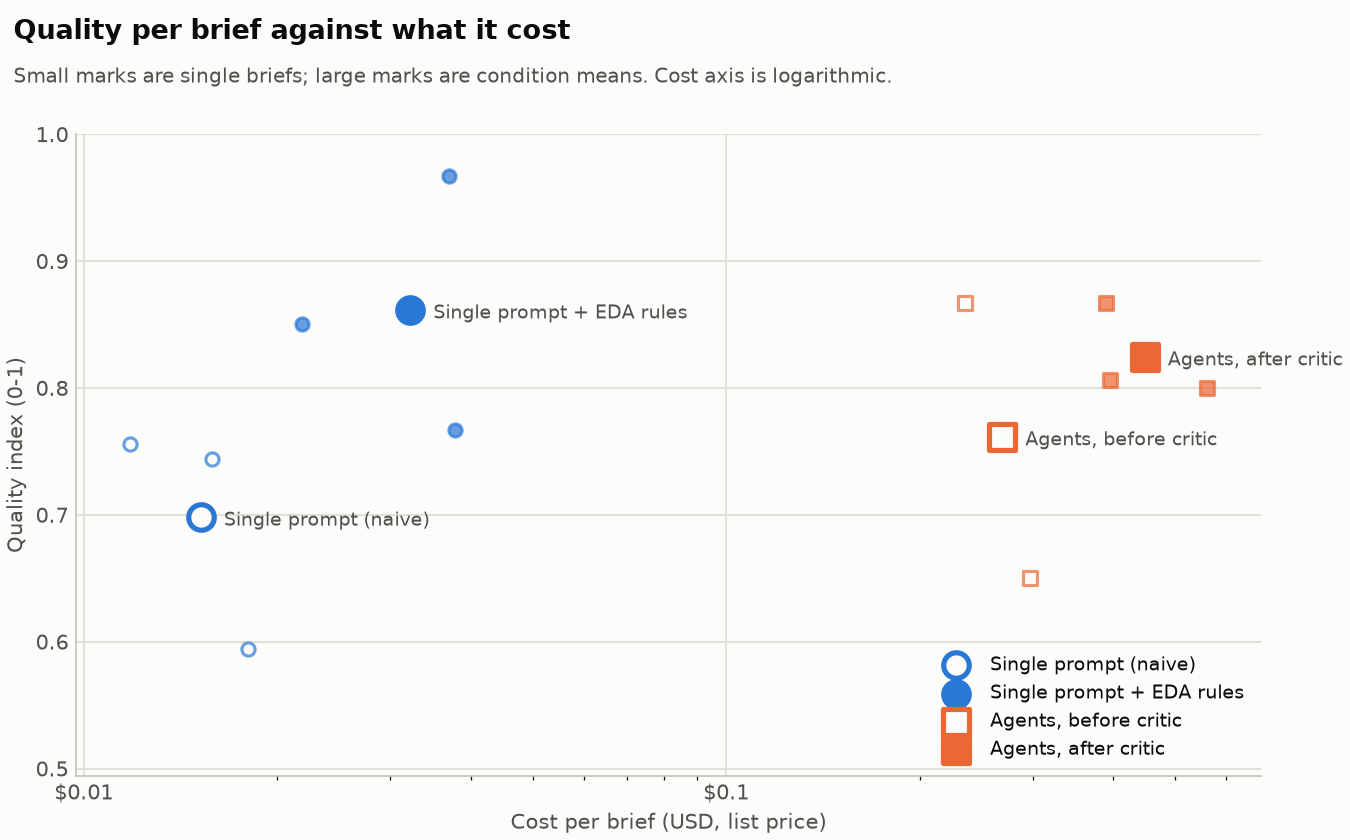
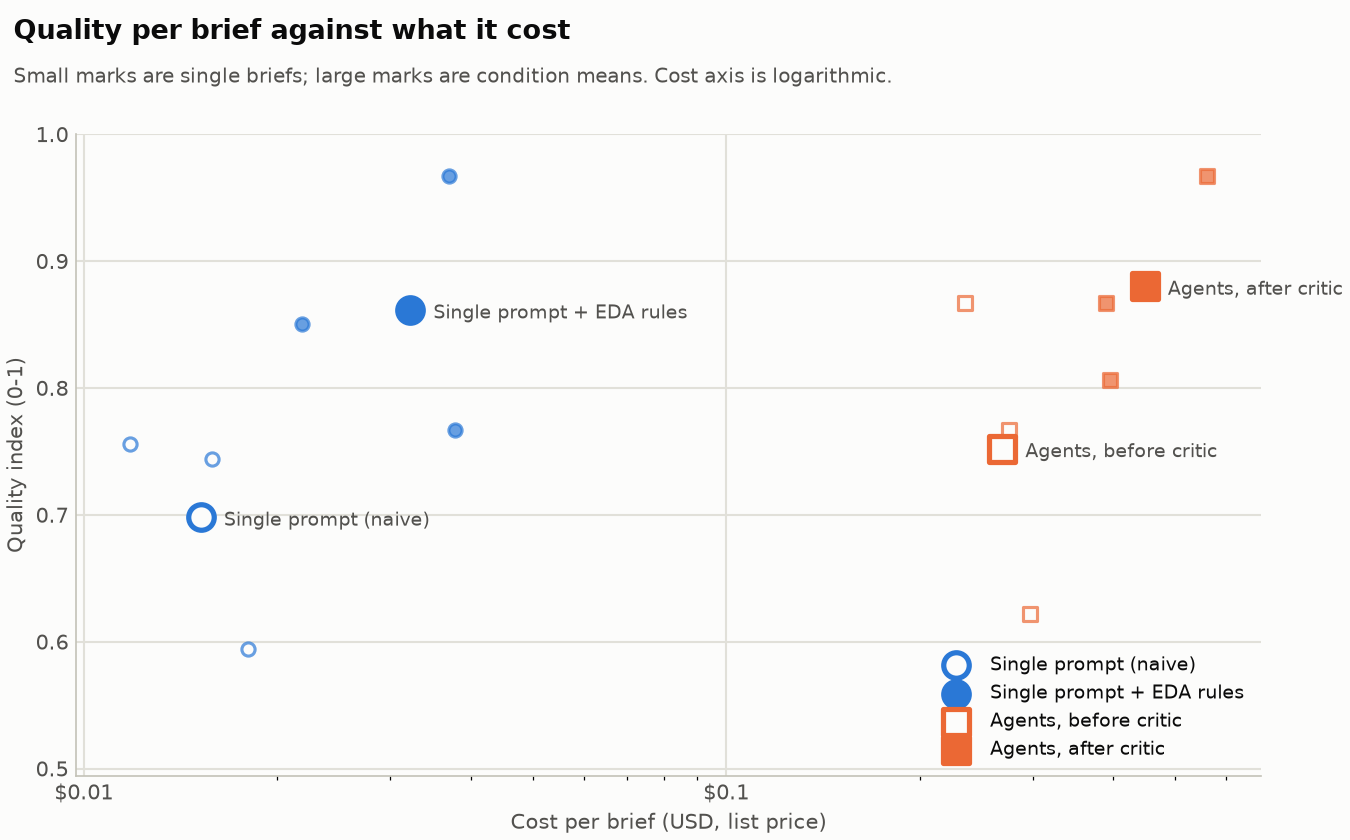
Fix judge excerpt matching on Markdown formatting; re-score results
The excerpt check compared the judge's plain-text quotes against the raw
Markdown brief, so any brief using **bold** lost traps it had handled.
Formatting marks are now ignored on both sides (test added). Re-scored the
gemini-3.8-flash experiment (cc37932e263b) from cached verdicts, no new
API calls: naive 0.70, single prompt + EDA rules 0.86, agents before
critic 0.75, agents after critic 0.88. Unverified judge claims: 18 -> 5.

diff --git a/src/discovery_chef/eval/judge.py b/src/discovery_chef/eval/judge.py
@@ -104,9 +104,17 @@ def judge(llm: LLM | None, record: BriefRecord, report: CitationReport,
     return assess(record.brief_id, verdict, record.markdown, report)
 
 
+_MARKUP = re.compile(r"[*_`#>]")  # Markdown emphasis, code, heading and quote marks
+
+
+def _plain(text: str) -> str:
+    """Text without Markdown formatting: the judge quotes words, not `**bold**` markers."""
+    return normalise(_MARKUP.sub("", text))
+
+
 def excerpt_in_brief(excerpt: str, markdown: str) -> bool:
-    brief = normalise(markdown)
-    parts = [p.strip(" .,;:!?\"'") for p in re.split(r"\.\.\.|…", normalise(excerpt))]
+    brief = _plain(markdown)
+    parts = [p.strip(" .,;:!?\"'") for p in re.split(r"\.\.\.|…", _plain(excerpt))]
     parts = [p for p in parts if len(p) >= 8]
     return bool(parts) and all(p in brief for p in parts)
 

diff --git a/tests/test_eval.py b/tests/test_eval.py
@@ -169,6 +169,9 @@ def test_excerpt_matching():
     assert excerpt_in_brief("The 97% figure ... is unreliable", brief)
     assert not excerpt_in_brief("97% would pay", brief)
     assert not excerpt_in_brief("", brief)
+    # Markdown formatting in the brief must not hide a correct quote
+    bold = "- **PlanPlate (verified 2024-11-05, stale data):** EUR 2.99/month [C:PlanPlate]."
+    assert excerpt_in_brief("PlanPlate (verified 2024-11-05, stale data): EUR 2.99/month", bold)
 
 
 def test_full_evaluation_writes_report_and_blind_kit(runs, ctx, tmp_path):

diff --git a/outputs/eval/eval_report.md b/outputs/eval/eval_report.md
@@ -4,8 +4,8 @@ Generated by `uv run discovery-chef evaluate`. Do not edit by hand.
 
 - model under test: gemini-3.8-flash
 - code fingerprint: cc37932e263b
-- judge model: gemini-3.1-pro-preview
-- runs left out as not comparable: 15 (made with different code or prompts; model gemini-3-flash-preview; model gemini-3.5-flash-lite)
+- judge model: cached verdicts only
+- runs left out as not comparable: 16 (made with different code or prompts; model gemini-3-flash-preview; model gemini-3.5-flash-lite; model qwen3.5:4b)
 
 ## Overview
 
@@ -13,9 +13,9 @@ Generated by `uv run discovery-chef evaluate`. Do not edit by hand.
 |---|---|---|---|---|
 | Briefs | 3 | 3 | 3 | 3 |
 | Runs failed | 0 | 0 | 0 | 0 |
-| Quality index (0-1) | 0.70 (0.59-0.76) | 0.86 (0.77-0.97) | 0.76 (0.65-0.87) | 0.82 (0.80-0.87) |
-| Traps handled | 36% | 92% | 83% | 81% |
-| Sources misrepresented (per brief) | 0.33 | 0.67 | 1.33 | 0.67 |
+| Quality index (0-1) | 0.70 (0.59-0.76) | 0.86 (0.77-0.97) | 0.75 (0.62-0.87) | 0.88 (0.81-0.97) |
+| Traps handled | 36% | 92% | 97% | 97% |
+| Sources misrepresented (per brief) | 0.33 | 0.67 | 2 | 0.67 |
 | Mean criterion score (1-5) | 4.27 | 4.33 | 4.13 | 4.33 |
 | Blocking citation issues | 0.67 | 0.67 | 0.33 | 0 |
 | Claim lines cited | 92% | 98% | 98% | 100% |
@@ -32,8 +32,8 @@ Quality index = the mean of three 0-1 scores: traps handled, faithfulness (1 min
 | Step | Quality index | Traps | Misrepresentations | Criteria | Cost | Time |
 |---|---|---|---|---|---|---|
 | Adding the EDA's rules (one call) | +0.16 | +56 pts | +0.33 | +0.07 | +$0.017 | +24s |
-| Splitting the work across agents | -0.10 | -8 pts | +0.67 | -0.20 | +$0.237 | +279s |
-| The critic loop | +0.06 | -3 pts | -0.67 | +0.20 | +$0.179 | +160s |
+| Splitting the work across agents | -0.11 | +6 pts | +1.33 | -0.20 | +$0.237 | +279s |
+| The critic loop | +0.13 | +0 pts | -1.33 | +0.20 | +$0.179 | +160s |
 
 ## Criteria (mean, 1-5)
 
@@ -51,15 +51,15 @@ Quality index = the mean of three 0-1 scores: traps handled, faithfulness (1 min
 |---|---|---|---|---|---|
 | T01 Leading interview excluded | F04 | 33% | 100% | 100% | 100% |
 | T02 Templated answers discounted | F05 | 0% | 100% | 67% | 100% |
-| T03 Target fit distinguished | F01 | 67% | 100% | 67% | 67% |
-| T04 Fit is not the same as pain | F03 | 0% | 100% | 67% | 67% |
+| T03 Target fit distinguished | F01 | 67% | 100% | 100% | 100% |
+| T04 Fit is not the same as pain | F03 | 0% | 100% | 100% | 100% |
 | T05 Willingness to pay kept honest | F08 | 100% | 100% | 100% | 100% |
-| T06 Inventory upkeep is the key risk | F11 | 100% | 100% | 67% | 67% |
-| T07 Planning itself is contested | F12 | 100% | 100% | 67% | 67% |
+| T06 Inventory upkeep is the key risk | F11 | 100% | 100% | 100% | 100% |
+| T07 Planning itself is contested | F12 | 100% | 100% | 100% | 100% |
 | T08 'Stop arguing' is weakly supported | F14 | 33% | 100% | 100% | 100% |
 | T09 Competitors already know what you own | F16 | 0% | 100% | 100% | 100% |
-| T10 Stale competitor rows caveated | F15 | 0% | 67% | 100% | 33% |
-| T11 Unreliable market figures not used as fact | F18 | 0% | 67% | 67% | 67% |
+| T10 Stale competitor rows caveated | F15 | 0% | 67% | 100% | 67% |
+| T11 Unreliable market figures not used as fact | F18 | 0% | 67% | 100% | 100% |
 | T12 Limits of the evidence stated | F19 | 0% | 67% | 100% | 100% |
 
 ## The critic loop
